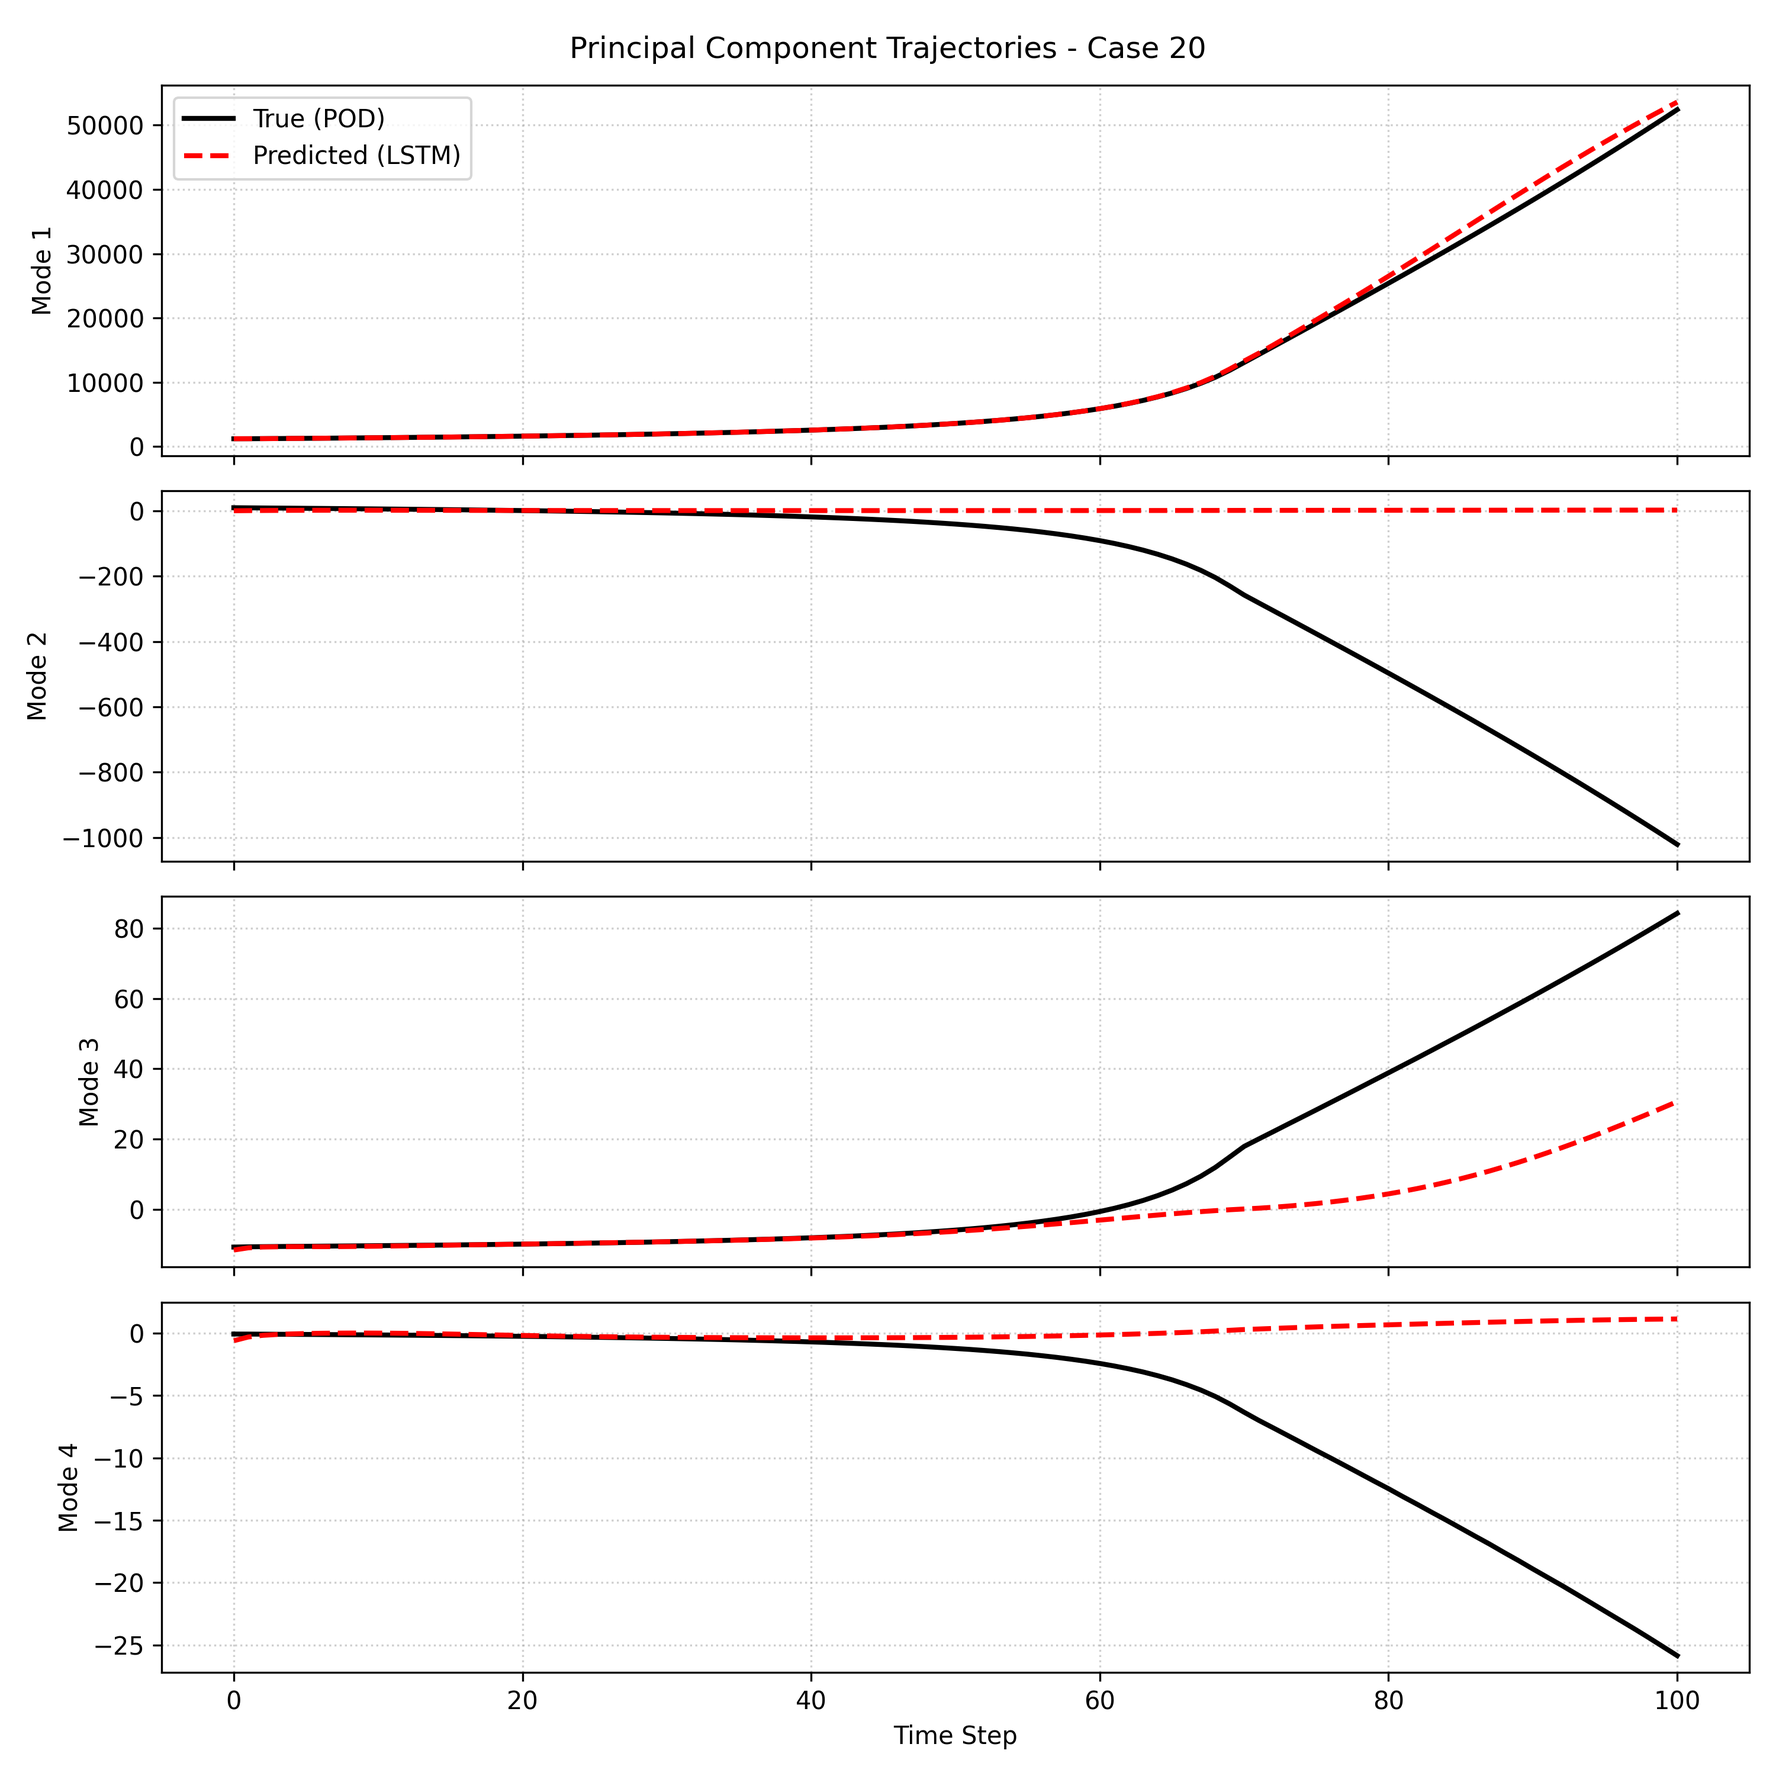
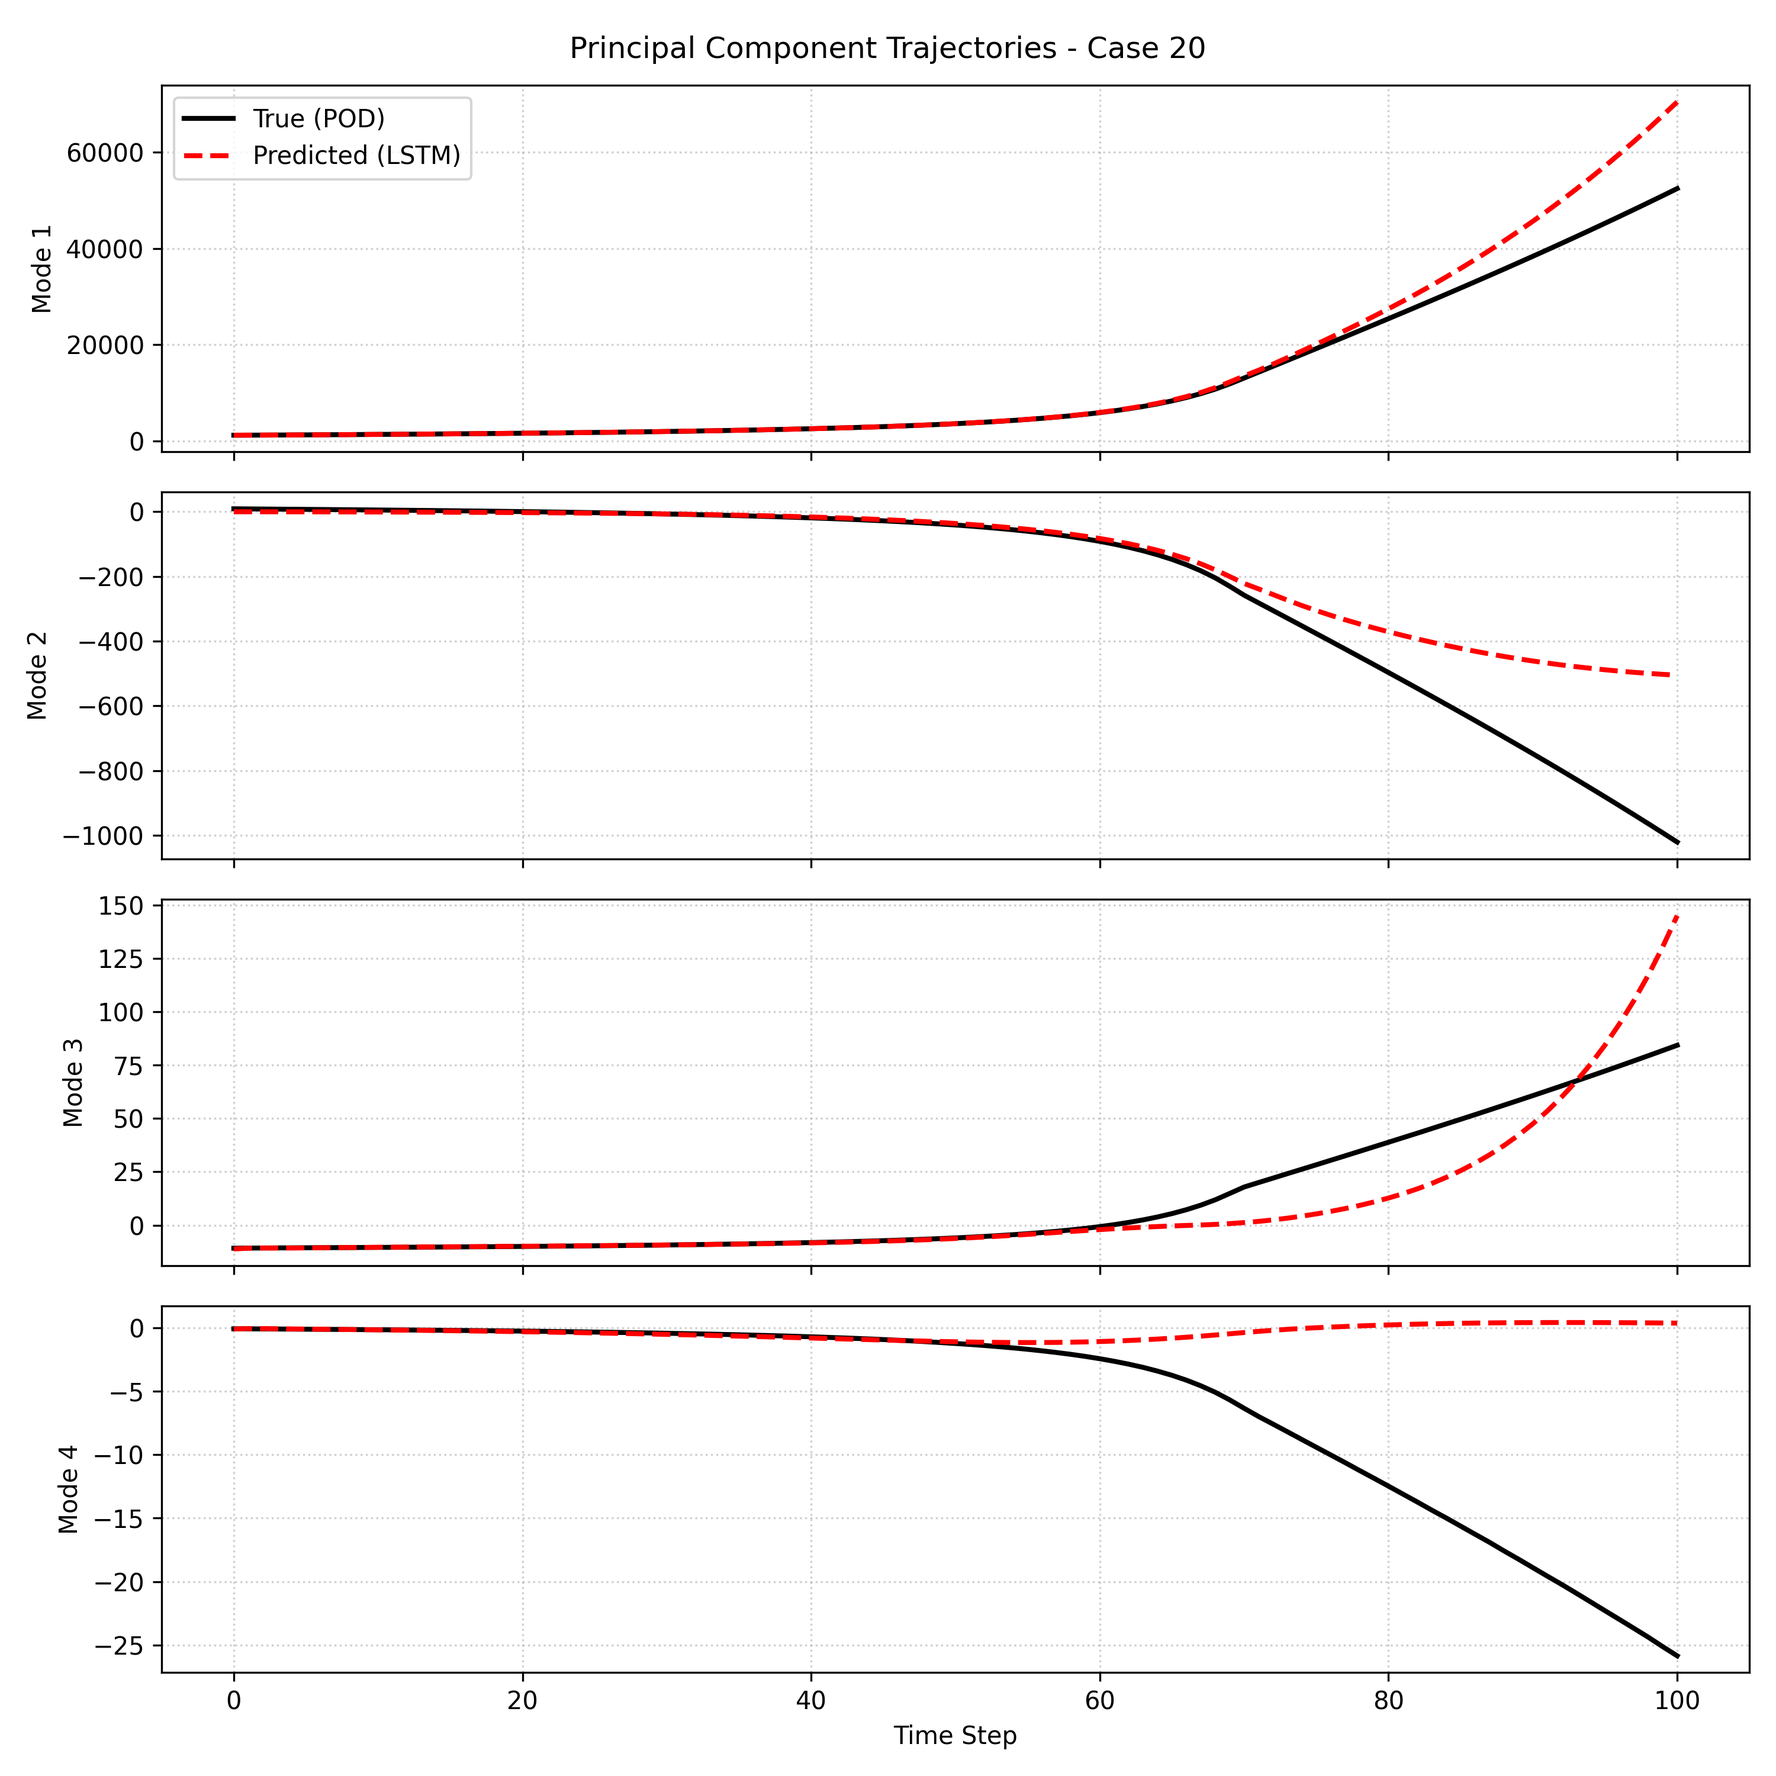
修改数据基底读取的逻辑

diff --git a/2D-PINN/6.validate.py b/2D-PINN/6.validate.py
@@ -1,0 +1,155 @@
+import os
+import torch
+import numpy as np
+import joblib
+import yaml
+import matplotlib.pyplot as plt
+from importlib import import_module
+
+# ================= 1. 配置与环境设置 =================
+model_module = import_module("3-model")
+POD_LSTM = model_module.POD_LSTM
+
+with open("config.yaml", "r", encoding="utf-8") as f: 
+    config = yaml.safe_load(f)
+PATHS, TRAIN, POD, PHYSICS = config['paths'], config['training'], config['pod'], config['physics']
+
+device = torch.device("cuda" if torch.cuda.is_available() else "cpu")
+os.makedirs(PATHS['output_dir'], exist_ok=True)
+
+def restore_and_visualize():
+    print("========== 开始执行物理场还原与可视化流程 ==========")
+    
+    # --- 1. 加载测试输入与权重 ---
+    try:
+        X_test_base = np.load(os.path.join(PATHS['processed_dir'], "X_test.npy"))
+        ckpt = torch.load(os.path.join(PATHS['model_save_dir'], "best_pod_lstm.pth"), map_location=device)
+    except FileNotFoundError as e:
+        print(f"错误: 找不到必要文件，请确保已重新运行数据处理与训练。\n详情: {e}")
+        return
+
+    # --- 2. 构造 8 维物理增强特征 ---
+    print("正在计算积分项，将基础特征增强至 8 维...")
+    num_cases, num_steps, _ = X_test_base.shape
+    dt = PHYSICS.get('dt', 0.01)
+    decay_lambdas = PHYSICS.get('decay_constants', [0.1, 0.5, 1.0]) 
+    
+    p_t = X_test_base[:, :, 2] # 假定索引 2 为微扰截面 p(t)
+    decay_features = []
+    
+    for lam in decay_lambdas:
+        integral = np.zeros((num_cases, num_steps))
+        for t in range(1, num_steps):
+            integral[:, t] = integral[:, t-1] * np.exp(-lam * dt) + p_t[:, t] * dt
+        decay_features.append(integral[:, :, np.newaxis])
+        
+    simple_integral = np.cumsum(p_t, axis=1) * dt
+    decay_features.append(simple_integral[:, :, np.newaxis])
+    
+    X_test_raw = np.concatenate([X_test_base] + decay_features, axis=-1)
+
+    # --- 3. 模型推理 ---
+    X_mean, X_std = ckpt['X_mean'].cpu().numpy(), ckpt['X_std'].cpu().numpy()
+    A_mean, A_std = ckpt['A_mean'].cpu().numpy(), ckpt['A_std'].cpu().numpy()
+
+    output_dim = POD['r_fast'] + POD['r_thermal']
+    model = POD_LSTM(TRAIN['input_dim'], TRAIN['hidden_dim'], output_dim, TRAIN.get('num_layers', 2)).to(device)
+    model.load_state_dict(ckpt['model_state_dict'])
+    model.eval()
+
+    X_test_scaled = (X_test_raw - X_mean) / (X_std + 1e-8)
+    X_tensor = torch.tensor(X_test_scaled, dtype=torch.float32).to(device)
+    
+    with torch.no_grad():
+        A_pred_scaled = model(X_tensor).cpu().numpy()
+
+    # --- 4. 逆向还原 (从对数空间还原物理爆发) ---
+    A_pred_symlog = A_pred_scaled * A_std + A_mean
+    A_pred_phys = np.sign(A_pred_symlog) * (np.expm1(np.abs(A_pred_symlog)))
+
+    # --- 5. POD 空间逆变换 ---
+    svd_fast = joblib.load(os.path.join(PATHS['pod_save_dir'], 'svd_fast.pkl'))
+    svd_thermal = joblib.load(os.path.join(PATHS['pod_save_dir'], 'svd_thermal.pkl'))
+    
+    A_flat = A_pred_phys.reshape(num_cases * num_steps, -1)
+    
+    Y_fast_flat = svd_fast.inverse_transform(A_flat[:, :POD['r_fast']])
+    Y_thermal_flat = svd_thermal.inverse_transform(A_flat[:, POD['r_fast']:])
+    
+    Y_pred = np.concatenate([Y_fast_flat, Y_thermal_flat], axis=-1).reshape(num_cases, num_steps, -1)
+    np.save(os.path.join(PATHS['output_dir'], "Y_test_pred.npy"), Y_pred)
+    
+    # 自动推断网格维度 (假定为正方形网格)
+    total_nodes = Y_pred.shape[-1]
+    N_NODES_PER_GROUP = total_nodes // 2
+    NX = NY = int(np.sqrt(N_NODES_PER_GROUP))
+    print(f"物理场向量还原完成，形状: {Y_pred.shape}")
+    print(f"自适应识别网格尺寸: {NX}x{NY}")
+
+    # ================= 6. 可视化 =================
+    print("\n>>> 开始绘制二维热力图对比...")
+    try:
+        Y_test_raw = np.load(os.path.join(PATHS['processed_dir'], "Y_test_raw.npy"))
+    except FileNotFoundError:
+        Y_test_raw = None
+
+    case_idx = 0
+    time_steps = [0, 40, 80, 99] 
+    
+    for group in ["thermal", "fast"]:
+        if group == "fast":
+            start_idx, end_idx = 0, N_NODES_PER_GROUP
+            title_pfix = "Fast Flux"
+        else:
+            start_idx, end_idx = N_NODES_PER_GROUP, N_NODES_PER_GROUP * 2
+            title_pfix = "Thermal Flux"
+
+        true_case = Y_test_raw[case_idx] if Y_test_raw is not None else None
+        pred_case = Y_pred[case_idx]
+        
+        num_snaps = len(time_steps)
+        nrows = 3 if true_case is not None else 1
+        fig, axes = plt.subplots(nrows, num_snaps, figsize=(5 * num_snaps, nrows * 3.7 + 0.5), squeeze=False)
+        
+        for i, t in enumerate(time_steps):
+            # 极简画图核心：直接 reshape 并使用 origin='lower'，无需任何 flipud 或坐标重排
+            raw_pred = pred_case[t, start_idx:end_idx]
+            grid_pred = raw_pred.reshape(NY, NX)
+            
+            plot_vmin, plot_vmax = grid_pred.min(), grid_pred.max()
+
+            if true_case is not None:
+                raw_true = true_case[t, start_idx:end_idx]
+                grid_true = raw_true.reshape(NY, NX)
+                grid_err = np.abs(grid_true - grid_pred)
+                plot_vmin, plot_vmax = grid_true.min(), grid_true.max()
+
+                # Row 0: True
+                im0 = axes[0, i].imshow(grid_true, cmap='jet', origin='lower', vmin=plot_vmin, vmax=plot_vmax)
+                axes[0, i].set_title(f"True {title_pfix}\nt={t}", fontsize=11)
+                plt.colorbar(im0, ax=axes[0, i], fraction=0.046, pad=0.04)
+
+                # Row 1: Pred
+                curr_pred_ax = axes[1, i]
+                
+                # Row 2: Abs Error
+                im2 = axes[2, i].imshow(grid_err, cmap='hot', origin='lower')
+                axes[2, i].set_title(f"Abs Error\nt={t}", fontsize=11)
+                plt.colorbar(im2, ax=axes[2, i], fraction=0.046, pad=0.04)
+            else:
+                curr_pred_ax = axes[0, i]
+
+            im1 = curr_pred_ax.imshow(grid_pred, cmap='jet', origin='lower', vmin=plot_vmin, vmax=plot_vmax)
+            curr_pred_ax.set_title(f"Pred {title_pfix}\nt={t}", fontsize=11)
+            plt.colorbar(im1, ax=curr_pred_ax, fraction=0.046, pad=0.04)
+            
+        plt.suptitle(f"TWIGL {NX}x{NY} Reconstruction - Case {case_idx} ({title_pfix})", fontsize=16, y=0.98)
+        plt.tight_layout(rect=[0, 0, 1, 0.96])
+        
+        save_path = os.path.join(PATHS['output_dir'], f"reconstruction_{group}_case_{case_idx}.png")
+        plt.savefig(save_path, dpi=300, bbox_inches='tight')
+        plt.close()
+        print(f">>> {title_pfix} 可视化完成，保存至: {save_path}")
+
+if __name__ == "__main__":
+    restore_and_visualize()

diff --git a/2D-PINN/4.train.py b/2D-PINN/4.train.py
@@ -19,25 +19,42 @@ os.makedirs(PATHS['model_save_dir'], exist_ok=True)
 device = torch.device("cuda" if torch.cuda.is_available() else "cpu")
 
 # ================= 核心重构：物理空间绝对误差损失 =================
-class PhysicalSpaceLoss(nn.Module):
-    def __init__(self, a_mean, a_std, device):
-        super(PhysicalSpaceLoss, self).__init__()
-        # 提取统计参数用于微分逆还原
+class HybridModalLoss(nn.Module):
+    def __init__(self, a_mean, a_std, device, lambda_higher=100.0):
+        super(HybridModalLoss, self).__init__()
         self.a_mean = a_mean.view(1, 1, -1).to(device)
         self.a_std = a_std.view(1, 1, -1).to(device)
+        self.l1 = nn.L1Loss(reduction='none')
+        # 用于平衡绝对误差(百量级)与归一化误差(零点几量级)的缩放因子
+        self.lambda_higher = lambda_higher 
 
     def forward(self, pred_scaled, true_scaled):
-        # 1. 逆标准化 (保持张量的计算图和梯度)
+        # 1. 还原至绝对物理空间
         pred_symlog = pred_scaled * self.a_std + self.a_mean
         true_symlog = true_scaled * self.a_std + self.a_mean
 
-        # 2. 逆 SymLog 还原到绝对物理空间
         pred_phys = torch.sign(pred_symlog) * torch.expm1(torch.abs(pred_symlog))
         true_phys = torch.sign(true_symlog) * torch.expm1(torch.abs(true_symlog))
 
-        # 3. 在真实物理尺度上计算 L1 损失 (MAE)
-        # 物理空间的误差极大 (如几万)，使用 L1 Loss 可以提供稳定的线性梯度，防止 MSE 的平方效应导致梯度爆炸
-        return torch.nn.functional.l1_loss(pred_phys, true_phys)
+        # 2. 计算基础 L1 绝对误差矩阵 (Batch, 101, 16)
+        abs_err = self.l1(pred_phys, true_phys)
+        
+        # 3. 分支 A：Mode 1 采用纯绝对误差，死保全局能量基准
+        loss_m1 = abs_err[:, :, 0].mean()
+        
+        # 4. 分支 B：Mode 2~16 采用归一化误差，提升高频空间形变精度
+        # 提取高阶模态并计算标准差进行归一化 (+1.0 防止除零)
+        higher_true_phys = true_phys[:, :, 1:]
+        higher_abs_err = abs_err[:, :, 1:]
+        
+        mode_scale = torch.std(higher_true_phys, dim=(0, 1), keepdim=True).detach() + 1.0
+        normalized_higher_err = higher_abs_err / mode_scale
+        
+        loss_higher = normalized_higher_err.mean()
+        
+        # 5. 组合总损失
+        return loss_m1 + self.lambda_higher * loss_higher
+    
 
 def main():
     train_ds = TransientSequenceDataset(
@@ -60,8 +77,7 @@ def main():
     # 实例化物理空间损失函数
     a_mean_tensor = train_ds.A_mean.clone().detach()
     a_std_tensor = train_ds.A_std.clone().detach()
-    criterion = PhysicalSpaceLoss(a_mean_tensor, a_std_tensor, device)
-    
+    criterion = HybridModalLoss(a_mean_tensor, a_std_tensor, device)
     scheduler = optim.lr_scheduler.ReduceLROnPlateau(optimizer, mode='min', factor=0.5, patience=15)
 
     best_val_loss = float('inf')

diff --git a/2D-PINN/3-model.py b/2D-PINN/3-model.py
@@ -64,20 +64,31 @@ class POD_LSTM(nn.Module):
         super(POD_LSTM, self).__init__()
         self.lstm = nn.LSTM(input_dim, hidden_dim, num_layers, batch_first=True)
         
-        # 【核心改动】：全连接层的输入维度 = LSTM 隐藏层 + 原始 8 维特征
-        self.fc = nn.Sequential(
+        # 通道 A：专职负责模态 1 (指数级全局演化)
+        self.fc_mode1 = nn.Sequential(
+            nn.Linear(hidden_dim + input_dim, hidden_dim // 2),
+            nn.SiLU(),
+            nn.Linear(hidden_dim // 2, 1)
+        )
+        
+        # 通道 B：专职负责高阶模态 2~16 (局部空间形变与高频振荡)
+        self.fc_higher_modes = nn.Sequential(
             nn.Linear(hidden_dim + input_dim, hidden_dim),
             nn.SiLU(),
-            nn.Dropout(0.1), # 加入微量随机失活增强泛化
-            nn.Linear(hidden_dim, output_dim)
+            nn.Dropout(0.1),
+            nn.Linear(hidden_dim, output_dim - 1)
         )
 
     def forward(self, x):
         # x shape: (Batch, 101, 8)
-        lstm_out, _ = self.lstm(x) # (Batch, 101, hidden_dim)
+        lstm_out, _ = self.lstm(x) 
         
-        # 将 LSTM 的输出与原始输入特征在特征维度（dim=2）上拼接
-        # 这就是“物理直连”，防止后期失忆
+        # 物理特征直连
         combined = torch.cat([lstm_out, x], dim=2) 
         
-        return self.fc(combined)
+        # 分支预测
+        pred_m1 = self.fc_mode1(combined)                 # shape: (Batch, 101, 1)
+        pred_higher = self.fc_higher_modes(combined)      # shape: (Batch, 101, 15)
+        
+        # 拼接回完整的 16 维输出
+        return torch.cat([pred_m1, pred_higher], dim=2)

diff --git a/2D-PINN/7.py b/2D-PINN/7.py
@@ -1,0 +1,41 @@
+import pyvista as pv
+import matplotlib.pyplot as plt
+
+def diagnose_vtk_physical_field(vtk_file_path):
+    # 1. 读取单文件
+    mesh = pv.read(vtk_file_path)
+    
+    # 2. 提取物理几何坐标和通量数据
+    # mesh.points 是一个 (N, 3) 的数组，包含 x, y, z 坐标
+    x = mesh.points[:, 0]
+    y = mesh.points[:, 1]
+    
+    fast_flux = mesh.point_data['Fast_Flux']
+    thermal_flux = mesh.point_data['Thermal_Flux']
+    
+    # 3. 绕过任何 reshape，直接基于真实坐标映射颜色
+    fig, axes = plt.subplots(1, 2, figsize=(12, 5))
+    
+    # 快中子散点图
+    sc1 = axes[0].scatter(x, y, c=fast_flux, cmap='jet', marker='s', s=100)
+    axes[0].set_title("Fast Flux (Based on True Coordinates)")
+    axes[0].set_xlabel("X coordinate")
+    axes[0].set_ylabel("Y coordinate")
+    plt.colorbar(sc1, ax=axes[0])
+    
+    # 热中子散点图
+    sc2 = axes[1].scatter(x, y, c=thermal_flux, cmap='jet', marker='s', s=100)
+    axes[1].set_title("Thermal Flux (Based on True Coordinates)")
+    axes[1].set_xlabel("X coordinate")
+    axes[1].set_ylabel("Y coordinate")
+    plt.colorbar(sc2, ax=axes[1])
+    
+    plt.tight_layout()
+    plt.savefig("vtk_diagnostic_true_coordinates.png", dpi=300)
+    print("基于真实物理坐标的诊断图已保存为: vtk_diagnostic_true_coordinates.png")
+
+if __name__ == "__main__":
+    # 请将此处替换为你的 raw_data_dir 中实际存在的一个 VTK 文件路径
+    # 例如: ".\\dataset_raw\\outputs\\case_0000\\case_0000.out99.vtk"
+    test_vtk_path = ".\\data-raw\\2D_TWIGL_diff\case_0000\\case_0000.out99.vtk"
+    diagnose_vtk_physical_field(test_vtk_path)

diff --git a/2D-PINN/1.data.py b/2D-PINN/1.data.py
@@ -29,10 +29,27 @@ def extract_time_vector(out_file_path):
 
 def extract_flux(vtk_file_path):
     mesh = pv.read(vtk_file_path)
-    fast_flux = mesh.point_data['Fast_Flux'].copy()
-    thermal_flux = mesh.point_data['Thermal_Flux'].copy()
+    
+    # 1. 提取真实的物理几何坐标
+    x = mesh.points[:, 0]
+    y = mesh.points[:, 1]
+    
+    # 2. 生成基于坐标的绝对排序索引
+    # 使用 np.round 消除有限元网格可能的浮点数精度误差
+    # np.lexsort 接收的键是逆序的：传入 (x, y) 代表优先按 y 排序，再按 x 排序
+    # 这将生成标准的行优先（从下到上，从左到右）的一维索引
+    sort_idx = np.lexsort((np.round(x, 5), np.round(y, 5)))
+    
+    # 3. 提取通量数据
+    fast_flux_raw = mesh.point_data['Fast_Flux'].copy()
+    thermal_flux_raw = mesh.point_data['Thermal_Flux'].copy()
     mesh.clear_data() # 防止 PyVista 内存泄漏
-    return np.hstack((fast_flux, thermal_flux))
+    
+    # 4. 应用排序索引，纠正拓扑顺序
+    fast_flux_sorted = fast_flux_raw[sort_idx]
+    thermal_flux_sorted = thermal_flux_raw[sort_idx]
+    
+    return np.hstack((fast_flux_sorted, thermal_flux_sorted))
 
 def process_and_save(csv_file, prefix):
     csv_path = os.path.join(PATHS['split_data_dir'], csv_file)

diff --git a/2D-PINN/5.test.py b/2D-PINN/5.test.py
@@ -84,7 +84,7 @@ def main():
     # ================= 4. 初始化模型并推理 =================
     output_dim = POD['r_fast'] + POD['r_thermal']
     # 强制 input_dim=8 以匹配增强后的特征
-    model = POD_LSTM(8, TRAIN['hidden_dim'], output_dim, TRAIN.get('num_layers', 2)).to(device)
+    model = POD_LSTM(TRAIN['input_dim'], TRAIN['hidden_dim'], output_dim, TRAIN.get('num_layers', 2)).to(device)
     model.load_state_dict(ckpt['model_state_dict'])
     model.eval()
     
